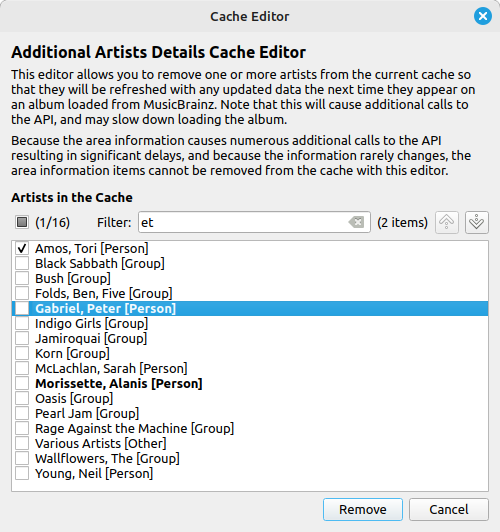
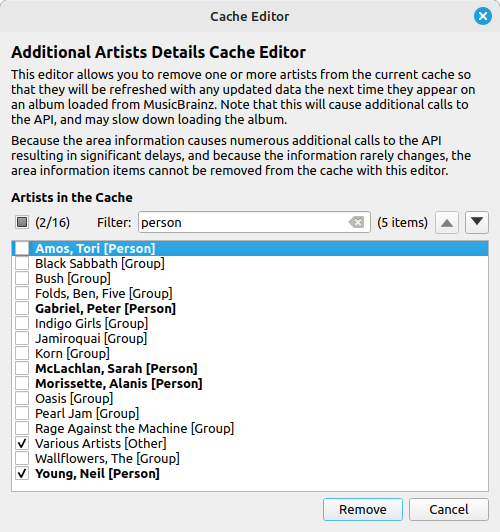
Update Additional Artists Details plugin documentation

diff --git a/additional_artists_details/user_guide.rst b/additional_artists_details/user_guide.rst
@@ -8,7 +8,7 @@ This plugin provides specialized album and track variables with artist details s
 
 .. note::
 
-   This plugin makes additional calls to the MusicBrainz website api for the information, which will slow down retrieving album information from MusicBrainz. This will be particularly noticable when there are many different album or track artists, such as on a \[Various Artists\] release. There is an option to disable track artist processing, which can significantly increase the processing speed if you are only interested in album artist details.
+   This plugin makes additional calls to the MusicBrainz website API for the information, which will slow down retrieving album information from MusicBrainz. This will be particularly noticable when there are many different album or track artists, such as on a \[Various Artists\] release. There is an option to disable track artist processing, which can significantly increase the processing speed if you are only interested in album artist details.
 
 
 What it Does
@@ -18,11 +18,11 @@ This plugin reads the album and track metadata provided to Picard, extracts the 
 
 The plugin maintains a cache of artist and area information retrieved from MusicBrainz to avoid making multiple API calls for the same information. This can significantly reduce the time required to load an album by eliminating unnecessary API calls for information already retrieved.
 
-There is a persistent cache system that utilizes a persistent cache file to retain the information from the cache for use in subsequent Picard sessions.
+There is a persistent cache system that utilizes a sqlite file to retain the information from the cache for use in subsequent Picard sessions.
 
 Area and (optionally) artist information is saved to the persistent cache file. Area information usually provides the most additional API calls, and thus is the largest contributor to delays when loading an album. For this reason, area information is always saved to the persistent cache file.
 
-When the plugin is initialized, it will populate its working cache from the persistent cache file if it is available. When an album is retrieved from MusicBrainz, once loading is complete, the persistent cache file is updated automatically with any new items in the working cache.
+When artist and area information is retrieved from MusicBrainz, the persistent cache file is updated automatically with any new items, and the items are added to the session working cache.
 
 Option Settings
 ----------------
@@ -50,11 +50,11 @@ Persistent cache
 
 There is an option to determine whether the persistent cache system is used. It is **strongly** recommended that this be enabled.
 
-The working cache is periodically stored to a persistent cache file, in JSON format, to allow the information to be used in subsequent Picard sessions. The path and file name of the persistent cache file is displayed, and there is a button to open the directory in your system file browser for easy access.
+All area records, and optionally artist records, are stored to a persistent cache sqlite database file as they are retrieved from the MusicBrainz API. This is to allow the information to be used in subsequent Picard sessions without having to repeat the API calls. The path and file name of the persistent cache file is displayed, and there is a button to open the directory in your system file browser for easy access.
 
-Area information is always stored in the persistent cache file, because area lookups produce the largest amount of API calls that impact album loading time.
+Area information is always stored in the persistent cache file, because area lookups produce the largest amount of API calls that impact album loading time. Artist information storage in the persistent cache file is optional, but recommended.
 
-Artist information storage in the persistent cache file is optional, but recommended. Where area information is almost always static and does not change, artist information occasionally changes things like location, begin or end dates, or disambiguation. If artist information is retained in the persistent cache file, the variables created will not contain this updated information. There are two ways to address this. One way is to disable including the artists in the persistent cache file, and the other way is to remove one or more selected artists from the current working cache using the cache editor. Removing specific artists will trigger refreshing only those artists the next time they are encountered on an album.
+While area information is almost always static and does not change, artist information occasionally changes things like location, begin or end dates, or disambiguation. If artist information is retained in the persistent cache file, the variables created will not contain any updated information that has changed since the artist record was stored. There are two ways to address this. One way is to disable including the artists in the persistent cache file, and the other way is to remove one or more selected artists from the current working cache using the cache editor. Removing specific artists will trigger refreshing only those artists the next time they are encountered on an album.
 
 .. note::
 
@@ -66,21 +66,41 @@ Artist information storage in the persistent cache file is optional, but recomme
 
 |
 
-The cache editor displays a list of the artists currently contained in the cache. It allows you to remove one or more artists from the current cache by selecting them from the list and clicking the :guilabel:`Remove` button. There is a check box to quickly select or deselect all artists, and an option to highlight and quickly move between artists using a filter.
+The cache editor displays a list of the artists currently contained in the cache. It allows you to remove one or more artists from the cache database file by selecting them from the list and clicking the :guilabel:`Remove` button. There is a check box to quickly select or deselect all artists, and an option to highlight and quickly move between artists using a filter.
 
 Because the area information causes numerous additional calls to the API resulting in significant delays, and because the information rarely changes, the area information items cannot be removed from the cache with the cache editor.
 
 The persistent cache action buttons include:
 
-- :guilabel:`Load` - Load the items from the persistent cache file into the current working cache.
-- :guilabel:`Save` - Save the items from the current working cache to the persistent cache file.
-- :guilabel:`Edit` - Open the cache editor dialog.
-- :guilabel:`Import` - Import items from a user-specified cache file into the current working cache.
-- :guilabel:`Export` - Export the items from the current working cache to a user-specified cache file. This can be used to generate a copy of the cache for backup purposes, for transferring to a different system, or for sharing with others.
+- :guilabel:`Import` - Import items from a user-specified cache file into the cache. This can import backup files in CSV format saved using the Export function, or JSON format files saved using the Export function from prior versions of the plugin.
+- :guilabel:`Export` - Export the items from the current cache database to a user-specified file in CSV format. This can be used to generate a copy of the cache for backup purposes, for transferring to a different system, or for sharing with others.
+- :guilabel:`Edit` - Open the cache editor dialog. This allows you to review, and optionally remove, the artist records from the cache so that they are refreshed the next time they are included on an album retrieved from MusicBrainz.
+- :guilabel:`Delete` - Remove the cache database file from your system. This button is disabled if there is no existing cache database file, or if the option to use the persistent cache system is enabled.
 
 .. caution::
 
-   When the option to include artists when saving to the cache file is disabled, the artist information will **not** be written when using the :guilabel:`Save` or :guilabel:`Export` actions.
+   When the option to include artists when saving to the cache file is disabled, the artist information will **not** be written when using the :guilabel:`Export` action.
+
+There is also a :guilabel:`Status` button which shows information about the current session cache as well as the cache database.
+
+.. image:: cache_status.png
+   :alt: Additional Artists Details Cache Status
+   :align: center
+
+|
+
+This displays the number of artist and area records currently stored in the session cache and the cache database file. It also indicates if there are any missing area parent records, and how many, and whether the missing area background processing is currently active.
+
+Cache Background Processing
+++++++++++++++++++++++++++++
+
+Occasionally, area information is not retrieved from MusicBrainz as part of the normal album retrieval. This is typically the result of the MusicBrainz API being overloaded (usually by AI scrapers). Missing area information can result in incomplete area information in tags generated for an artist.
+
+The plugin attempts to address this by periodically reviewing the cache database to identify any missing parent areas, and generating requests for the information from the MusicBrainz API in the background. This functionality is enabled by default (strongly recommended), however there is an option to disable it. You can also set the number of seconds to wait (from 20 to 600 seconds) between sending area requests to the API.
+
+The background processing will be automatically terminated if there are no missing parent area records, or if there was an unrecoverable error encounted such as too many retries due to the API being unavailable. Errors causing the processing to be terminated are logged.
+
+If the background processing has been terminated, and you wish to restart it, you can use the :menuselection:`Plugin Tools --> Start background area retrieval processing` action from the main Picard menu bar.
 
 
 Variables Created
